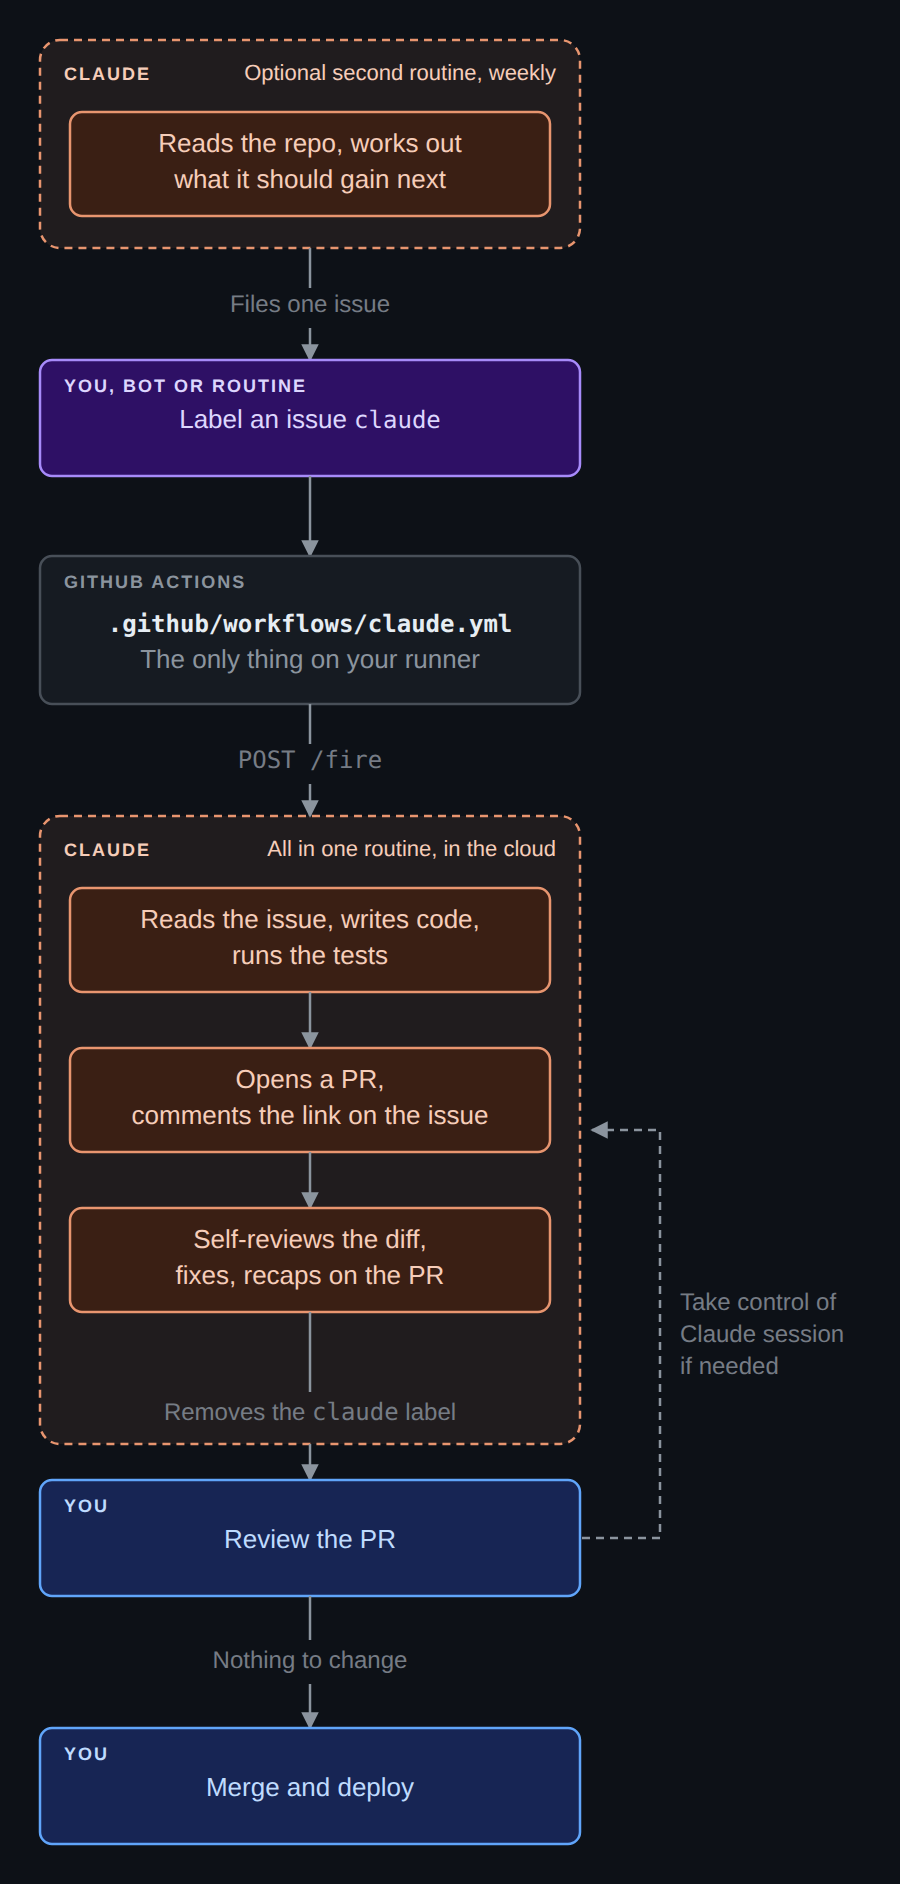
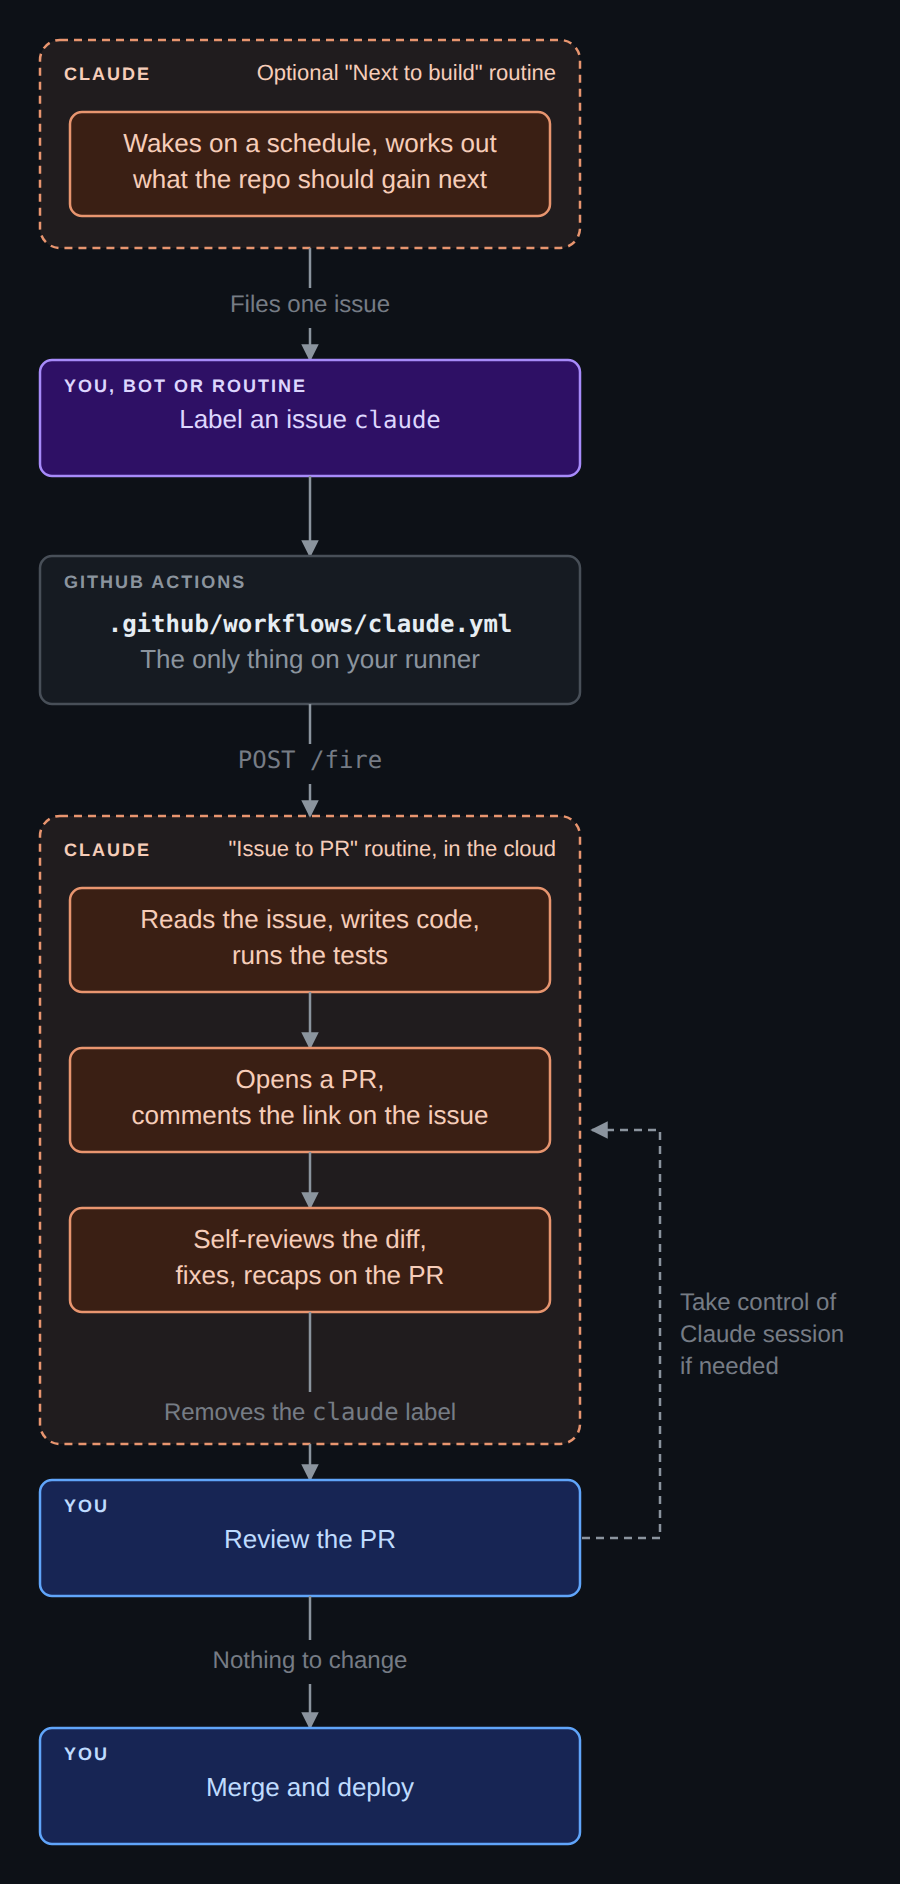
Name the two routines in the diagram and drop the cadence
Claude-Session: https://claude.ai/code/session_01DQS8Sza5PYpUe81doZH9zT

Changed region(s): [[0.1244, 0.0308, 0.6222, 0.1231], [0.28, 0.431, 0.4044, 0.4618]]

diff --git a/README.md b/README.md
@@ -128,7 +128,7 @@ It labels the issue as your GitHub user through the Claude GitHub App, so the la
 <p align="center">
   <picture>
     <source media="(prefers-color-scheme: dark)" srcset="docs/how-it-works-dark.svg">
-    <img src="docs/how-it-works-light.svg" width="450" alt="Optionally, a second Claude routine wakes on a schedule, reads the repo, works out what it should gain next and files one issue. A human, a bot, or that routine labels an issue claude; a GitHub Actions workflow POSTs /fire; one Claude routine in the cloud reads the issue, writes code, runs the tests, opens a PR, self-reviews it and removes the label. The human reviews the PR: if nothing needs to change they merge and deploy, otherwise they take control of the Claude session.">
+    <img src="docs/how-it-works-light.svg" width="450" alt="Optionally, the Next to build routine wakes on a schedule, works out what the repo should gain next and files one issue. A human, a bot, or that routine labels an issue claude; a GitHub Actions workflow POSTs /fire; the Issue to PR routine in the cloud reads the issue, writes code, runs the tests, opens a PR, self-reviews it and removes the label. The human reviews the PR: if nothing needs to change they merge and deploy, otherwise they take control of the Claude session.">
   </picture>
   <br/><sub><a href="https://claude.ai/artifact/L4yVFvUXqjVQN1fyGa4hPv">Source</a></sub>
 </p>
